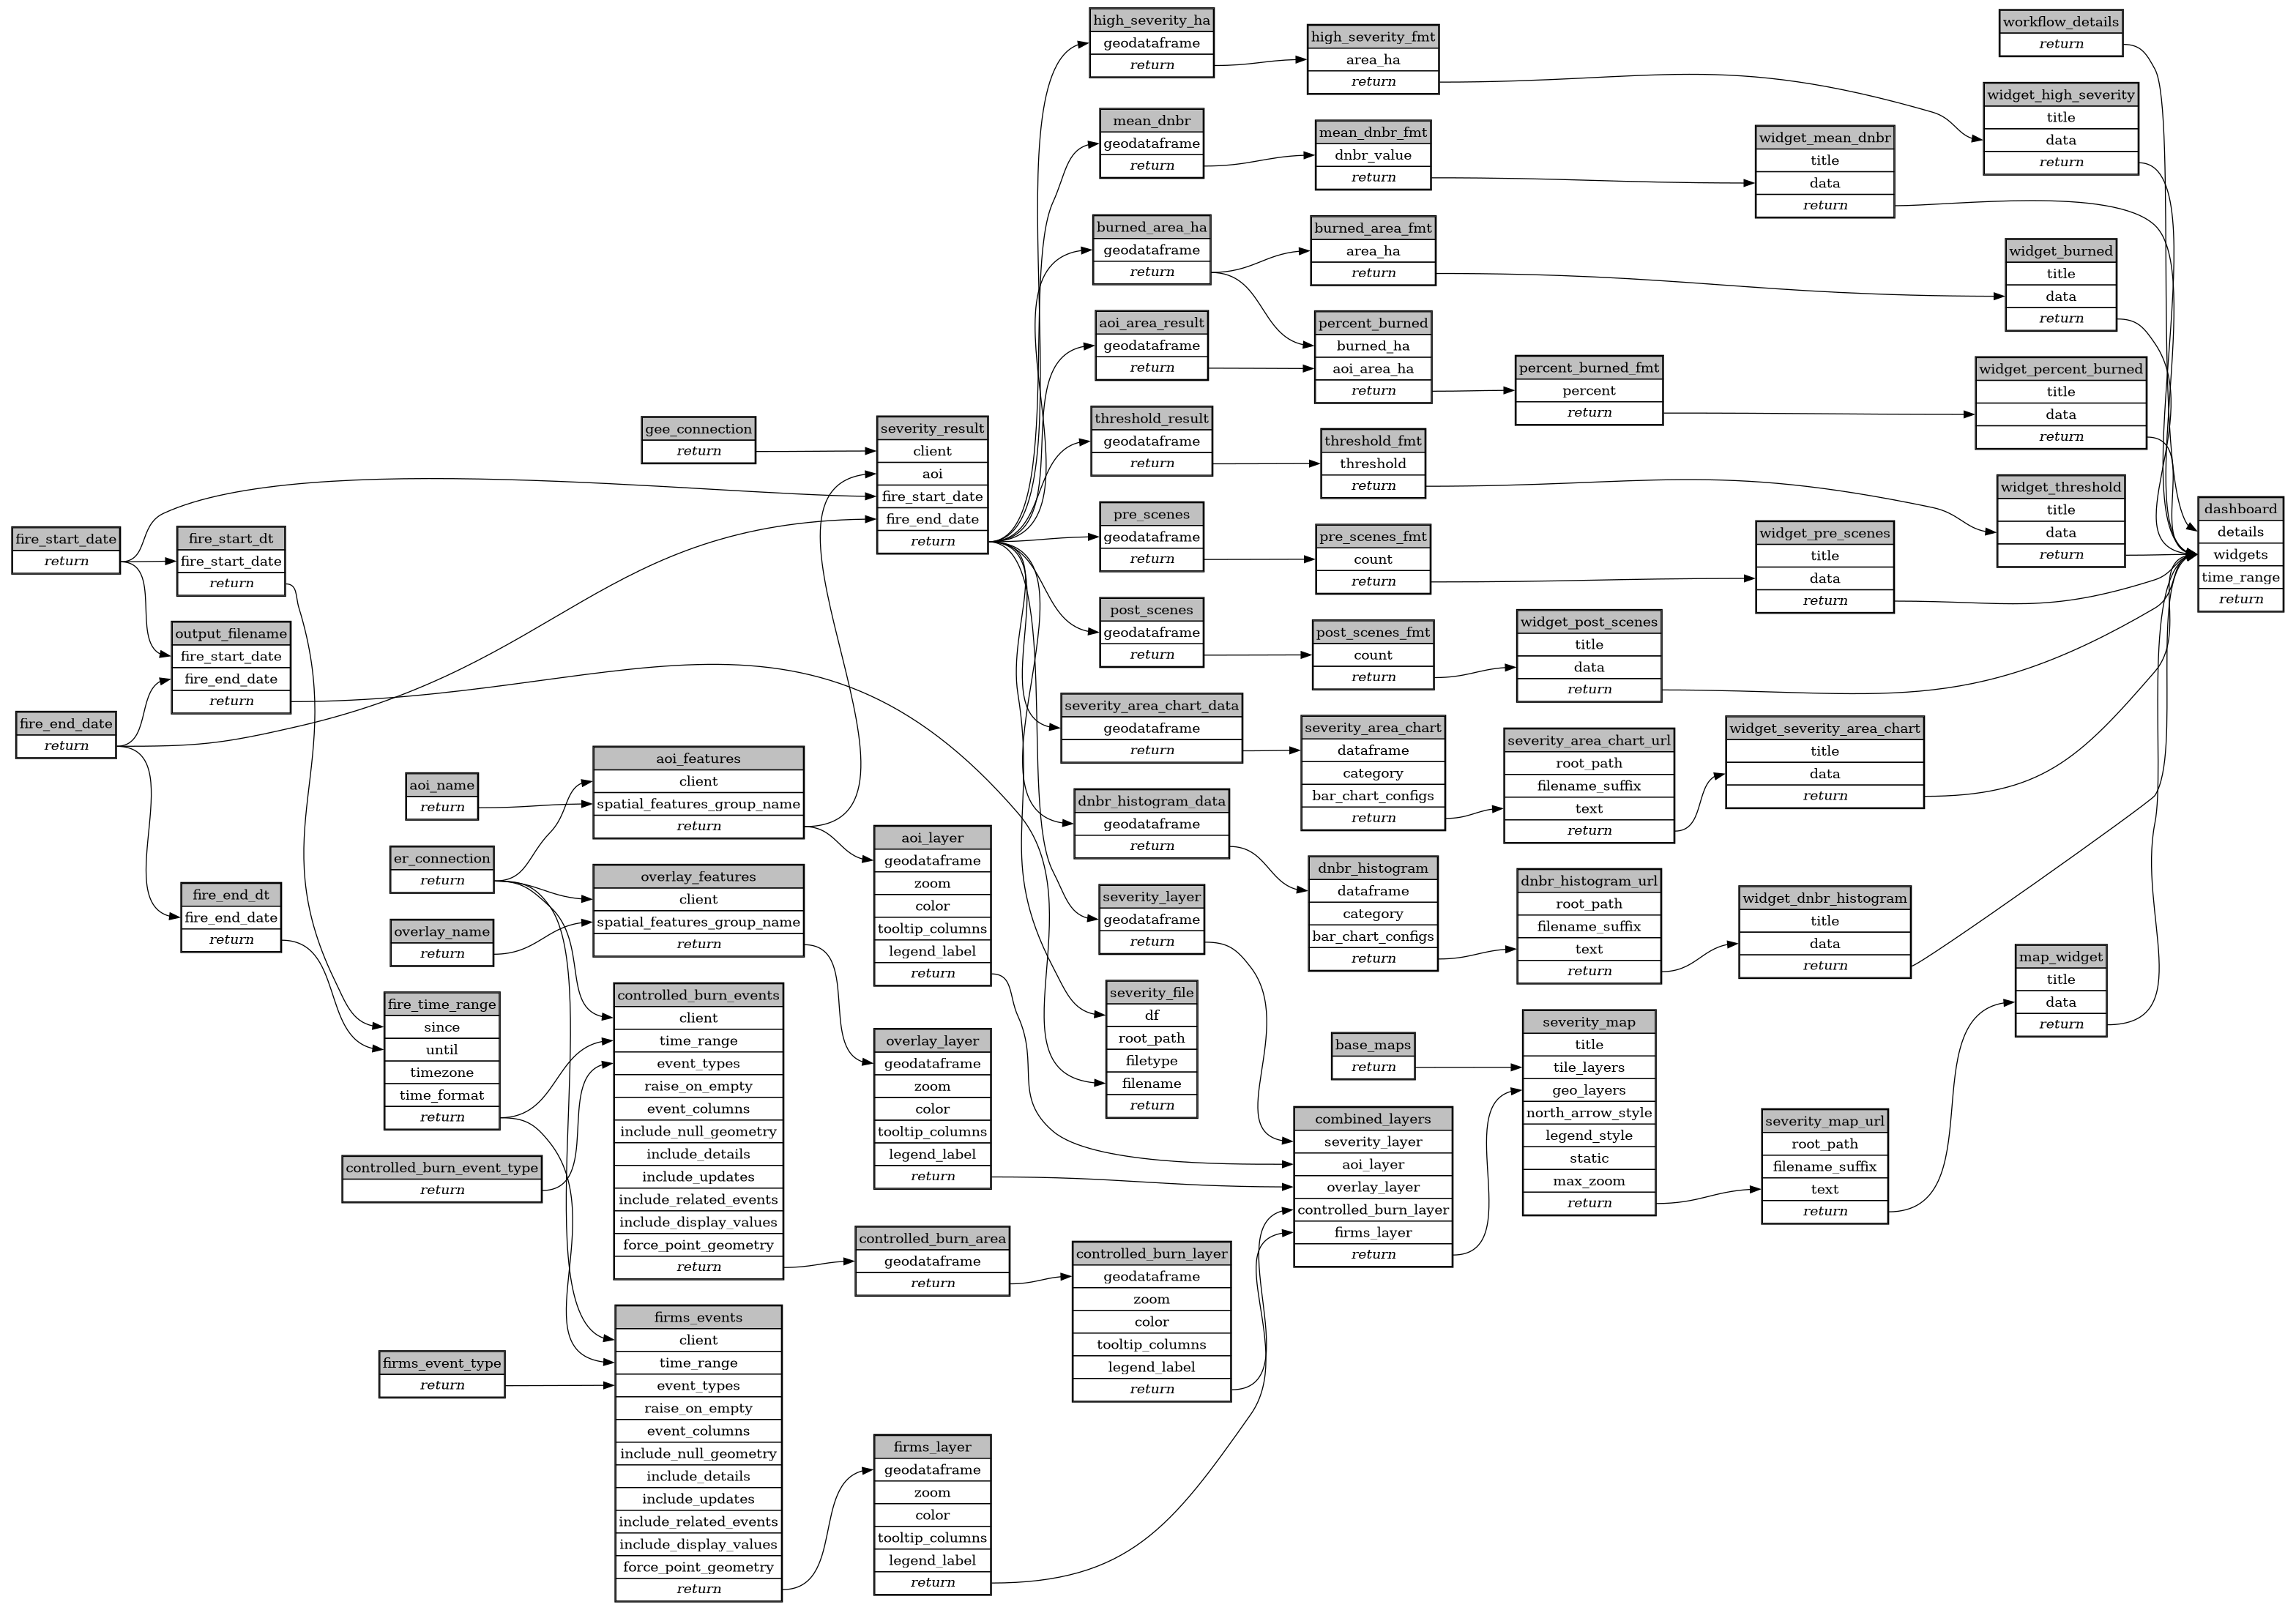
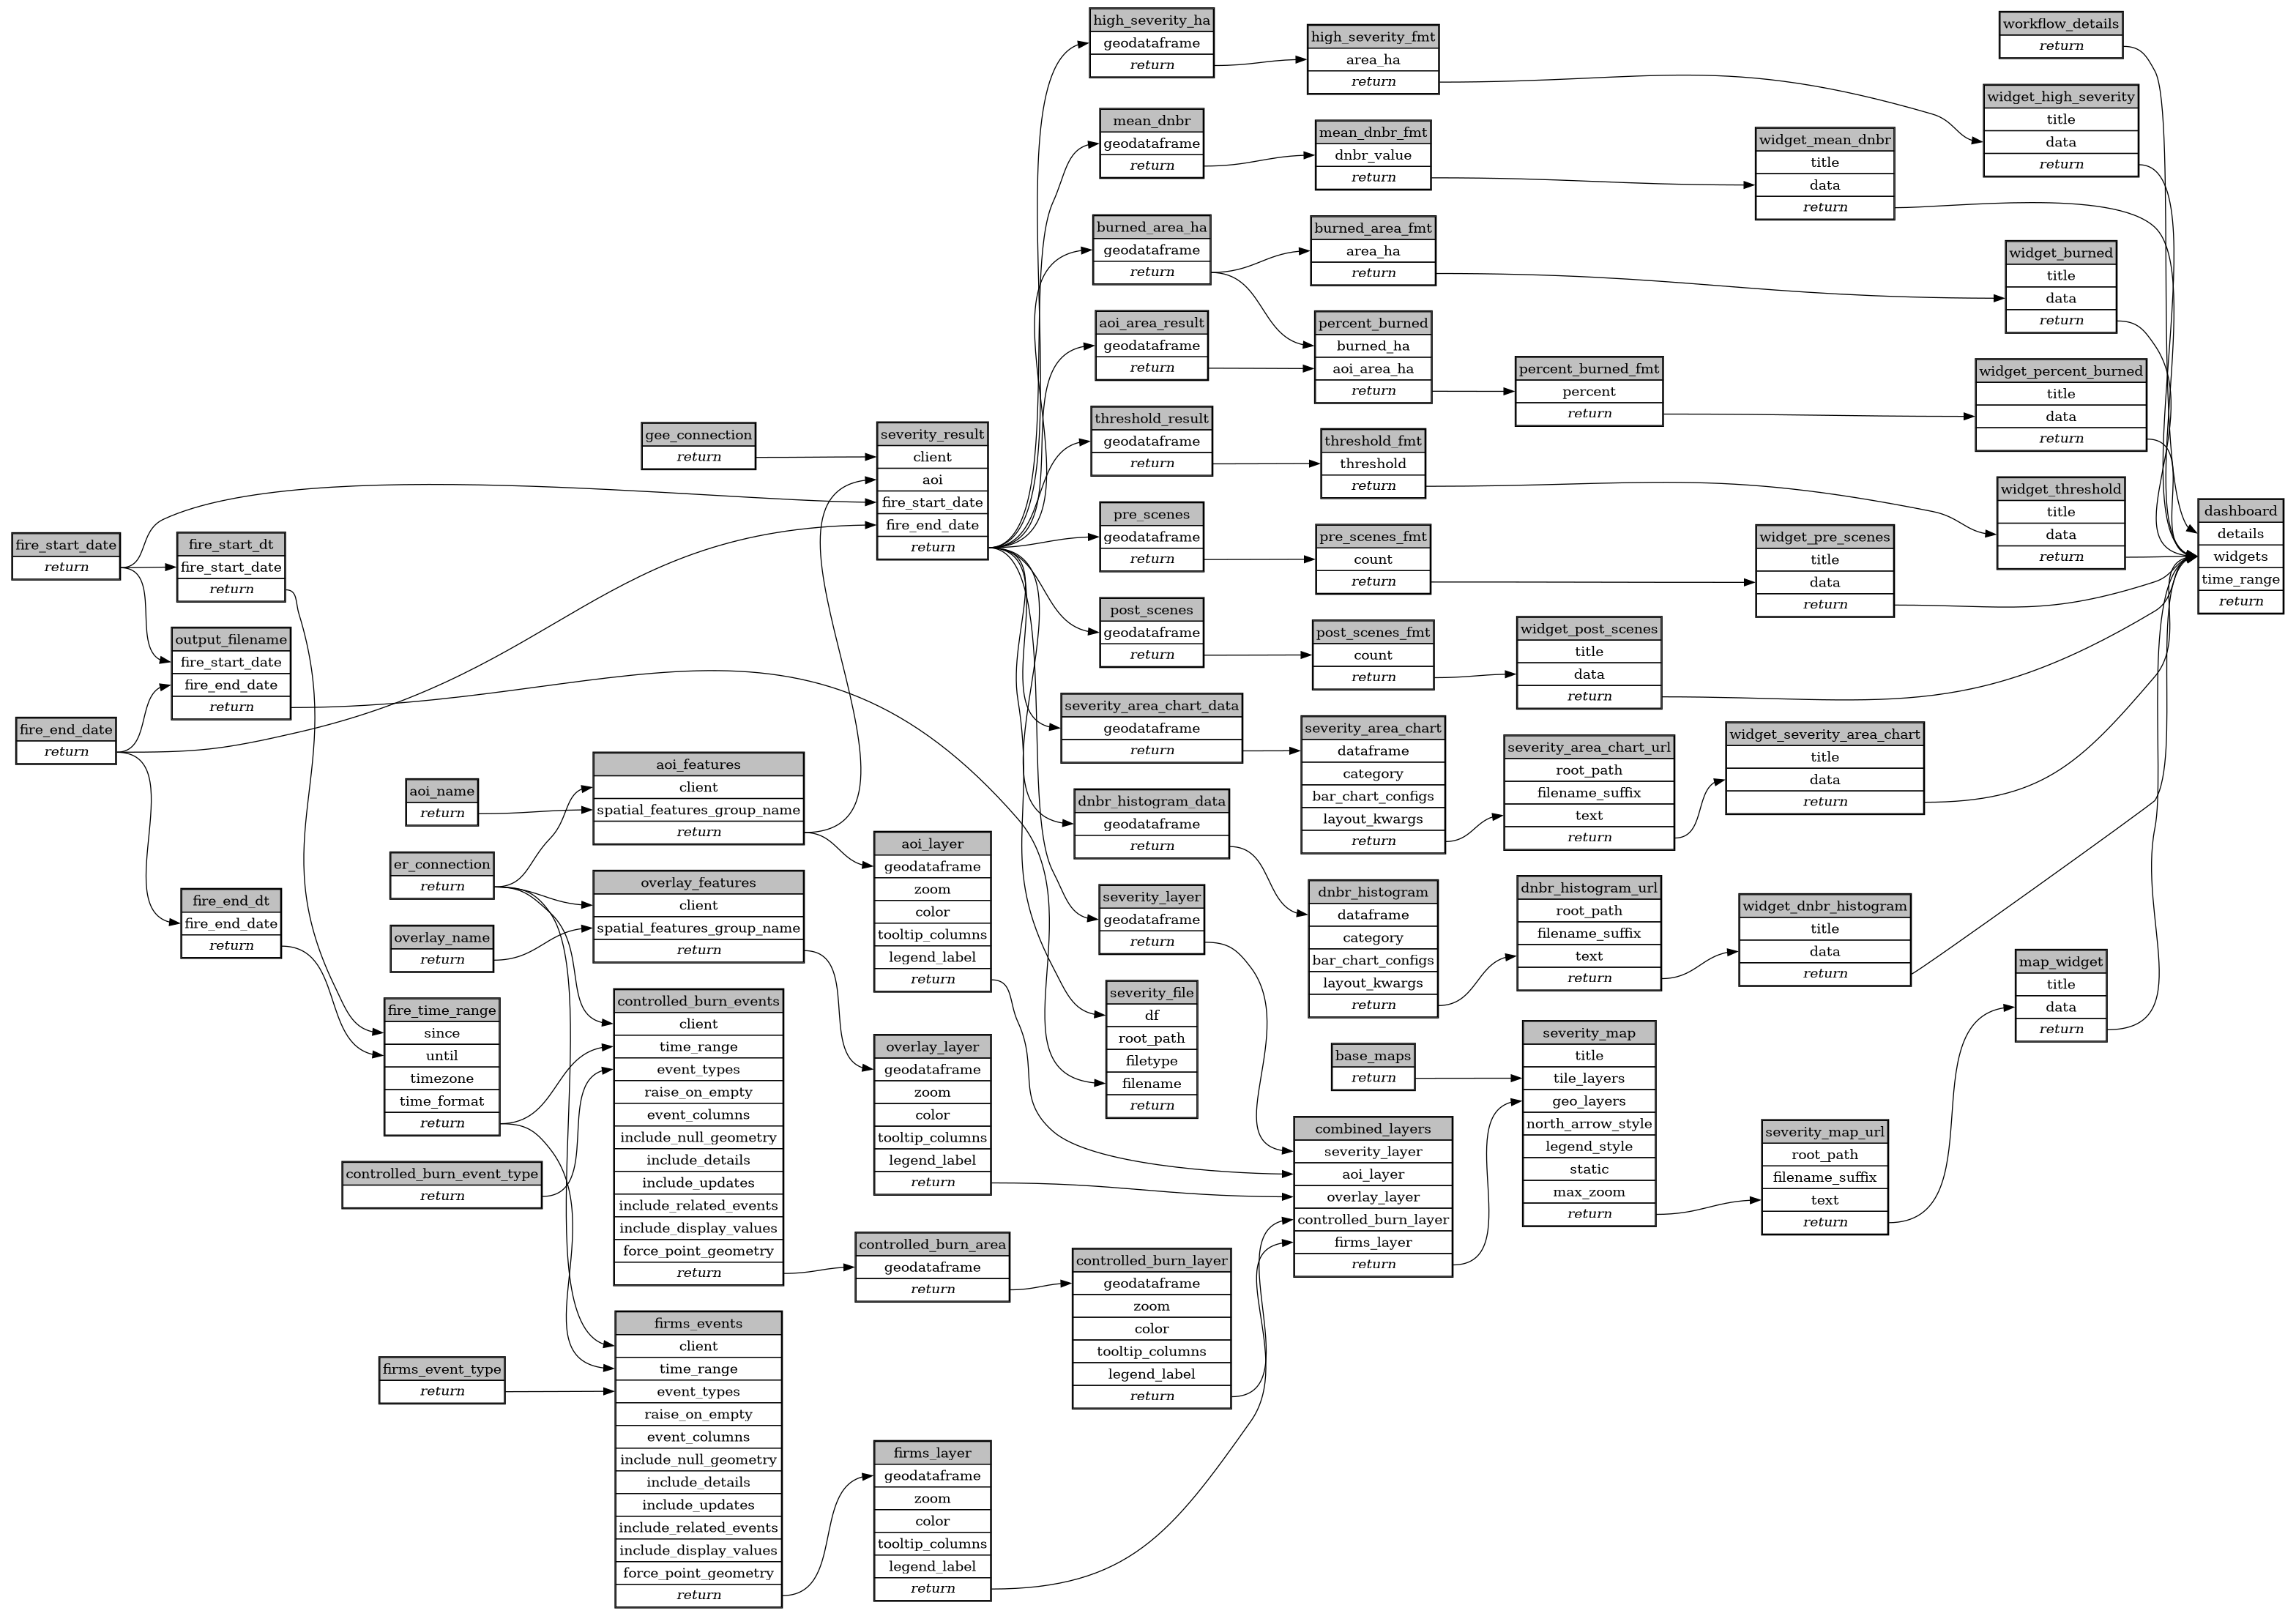
Hide chart layout_kwargs fields, use sensible fixed axis titles (v5.0.0)
Same treatment as every other technical field removed in v3.0.0: bind
layout_kwargs via partial instead of leaving it open, so the Severity Area
Chart and dNBR Histogram sections disappear from the form entirely.

diff --git a/ecoscope-workflows-dnbr-burn-severity-workflow/ecoscope_workflows_dnbr_burn_severity_workflow/dags/run_sequential.py b/ecoscope-workflows-dnbr-burn-severity-workflow/ecoscope_workflows_dnbr_burn_severity_workflow/dags/run_sequential.py
@@ -1142,6 +1142,11 @@ def main(params: dict[str, Any], validate_params_schema: bool = True):
             bar_chart_configs=[
                 {"column": "area_ha", "agg_func": "sum", "label": "Area (ha)"}
             ],
+            layout_kwargs={
+                "showlegend": False,
+                "xaxis": {"title": "Severity Class"},
+                "yaxis": {"title": "Area (ha)"},
+            },
             **(params.get("severity_area_chart") or {}),
         )
         .call()
@@ -1228,6 +1233,11 @@ def main(params: dict[str, Any], validate_params_schema: bool = True):
             bar_chart_configs=[
                 {"column": "dNBR", "agg_func": "count", "label": "Polygon Count"}
             ],
+            layout_kwargs={
+                "showlegend": False,
+                "xaxis": {"title": "dNBR (bin start)"},
+                "yaxis": {"title": "Polygon Count"},
+            },
             **(params.get("dnbr_histogram") or {}),
         )
         .call()

diff --git a/ecoscope-workflows-dnbr-burn-severity-workflow/ecoscope_workflows_dnbr_burn_severity_workflow/dags/run_sequential_mock_io.py b/ecoscope-workflows-dnbr-burn-severity-workflow/ecoscope_workflows_dnbr_burn_severity_workflow/dags/run_sequential_mock_io.py
@@ -1170,6 +1170,11 @@ def main(params: dict[str, Any], validate_params_schema: bool = True):
             bar_chart_configs=[
                 {"column": "area_ha", "agg_func": "sum", "label": "Area (ha)"}
             ],
+            layout_kwargs={
+                "showlegend": False,
+                "xaxis": {"title": "Severity Class"},
+                "yaxis": {"title": "Area (ha)"},
+            },
             **(params.get("severity_area_chart") or {}),
         )
         .call()
@@ -1256,6 +1261,11 @@ def main(params: dict[str, Any], validate_params_schema: bool = True):
             bar_chart_configs=[
                 {"column": "dNBR", "agg_func": "count", "label": "Polygon Count"}
             ],
+            layout_kwargs={
+                "showlegend": False,
+                "xaxis": {"title": "dNBR (bin start)"},
+                "yaxis": {"title": "Polygon Count"},
+            },
             **(params.get("dnbr_histogram") or {}),
         )
         .call()

diff --git a/CLAUDE.md b/CLAUDE.md
@@ -75,6 +75,15 @@ also accepts optional `controlled_burn_layer`/`firms_layer`) →
 stat chain: burned_area → high_severity → (aoi_area → percent_burned) → threshold → mean_dnbr → pre_scenes → post_scenes →
 `gather_dashboard` (`time_range: ~`).
 
+### Hide chart layout_kwargs — v5.0.0, added 2026-07-02
+
+The "Severity Area Chart" and "dNBR Histogram" sections (each exposing a single
+optional `layout_kwargs`/`LayoutStyle` field) got the same treatment as every other
+technical field removed in v3.0.0 — bound via `partial:` instead of left open, with
+sensible fixed values (`showlegend: false`, axis titles) rather than asking the user.
+Both sections now disappear entirely from the form, same mechanism as everywhere else
+in this workflow: a step with zero unbound params doesn't render.
+
 ### Two dashboard charts — v4.0.0, added 2026-07-02
 
 Added the two charts recommended when scoping this out: "Burned Area by Severity

diff --git a/ecoscope-workflows-dnbr-burn-severity-workflow/README.md b/ecoscope-workflows-dnbr-burn-severity-workflow/README.md
@@ -5,8 +5,8 @@
 
 ```yaml
 # fingerprint:
-artifacts_sha256_basic: bb48818c3424d09499a999ea770596dbaf2396e6862f4695a666e9d5c627727c
-artifacts_sha256_strict: b6f03516526e25e3c84ffe45c1e19f4b48447b7cf55b60d2b327da84e40632b2
+artifacts_sha256_basic: f6afd29086d5413e209c1be3f90db154b49b941e93dc2934bbcb6c64abfa8c55
+artifacts_sha256_strict: 9cd82b67b4b4afc9ff347bb51b74b27a010ef68a095697087727c29f56fc28d9
 installed_requirements:
 - channel: https://repo.prefix.dev/ecoscope-workflows/
   name: ecoscope-platform
@@ -14,8 +14,8 @@ installed_requirements:
 - channel: conda-forge
   name: pydeck
   version: {version: ==0.9.2}
-params_sha256: a8cd74e9b37dfd78c011764d48898649143ff9370675966e33020d0bd0e97124
-spec_sha256: 27301e7ffb50a540b99254d54fe731bf81a6f2984c1ca4aac7847bd973f746a9
+params_sha256: 7e8c0c92aa85c85c537b8b8ecf008a17394942508430aa937b691ace530d0ac4
+spec_sha256: c6354f02378e1309aa355f66e9070eb1c29b4c6bda976e5d609bc9e33e44f09c
 
 ```
 